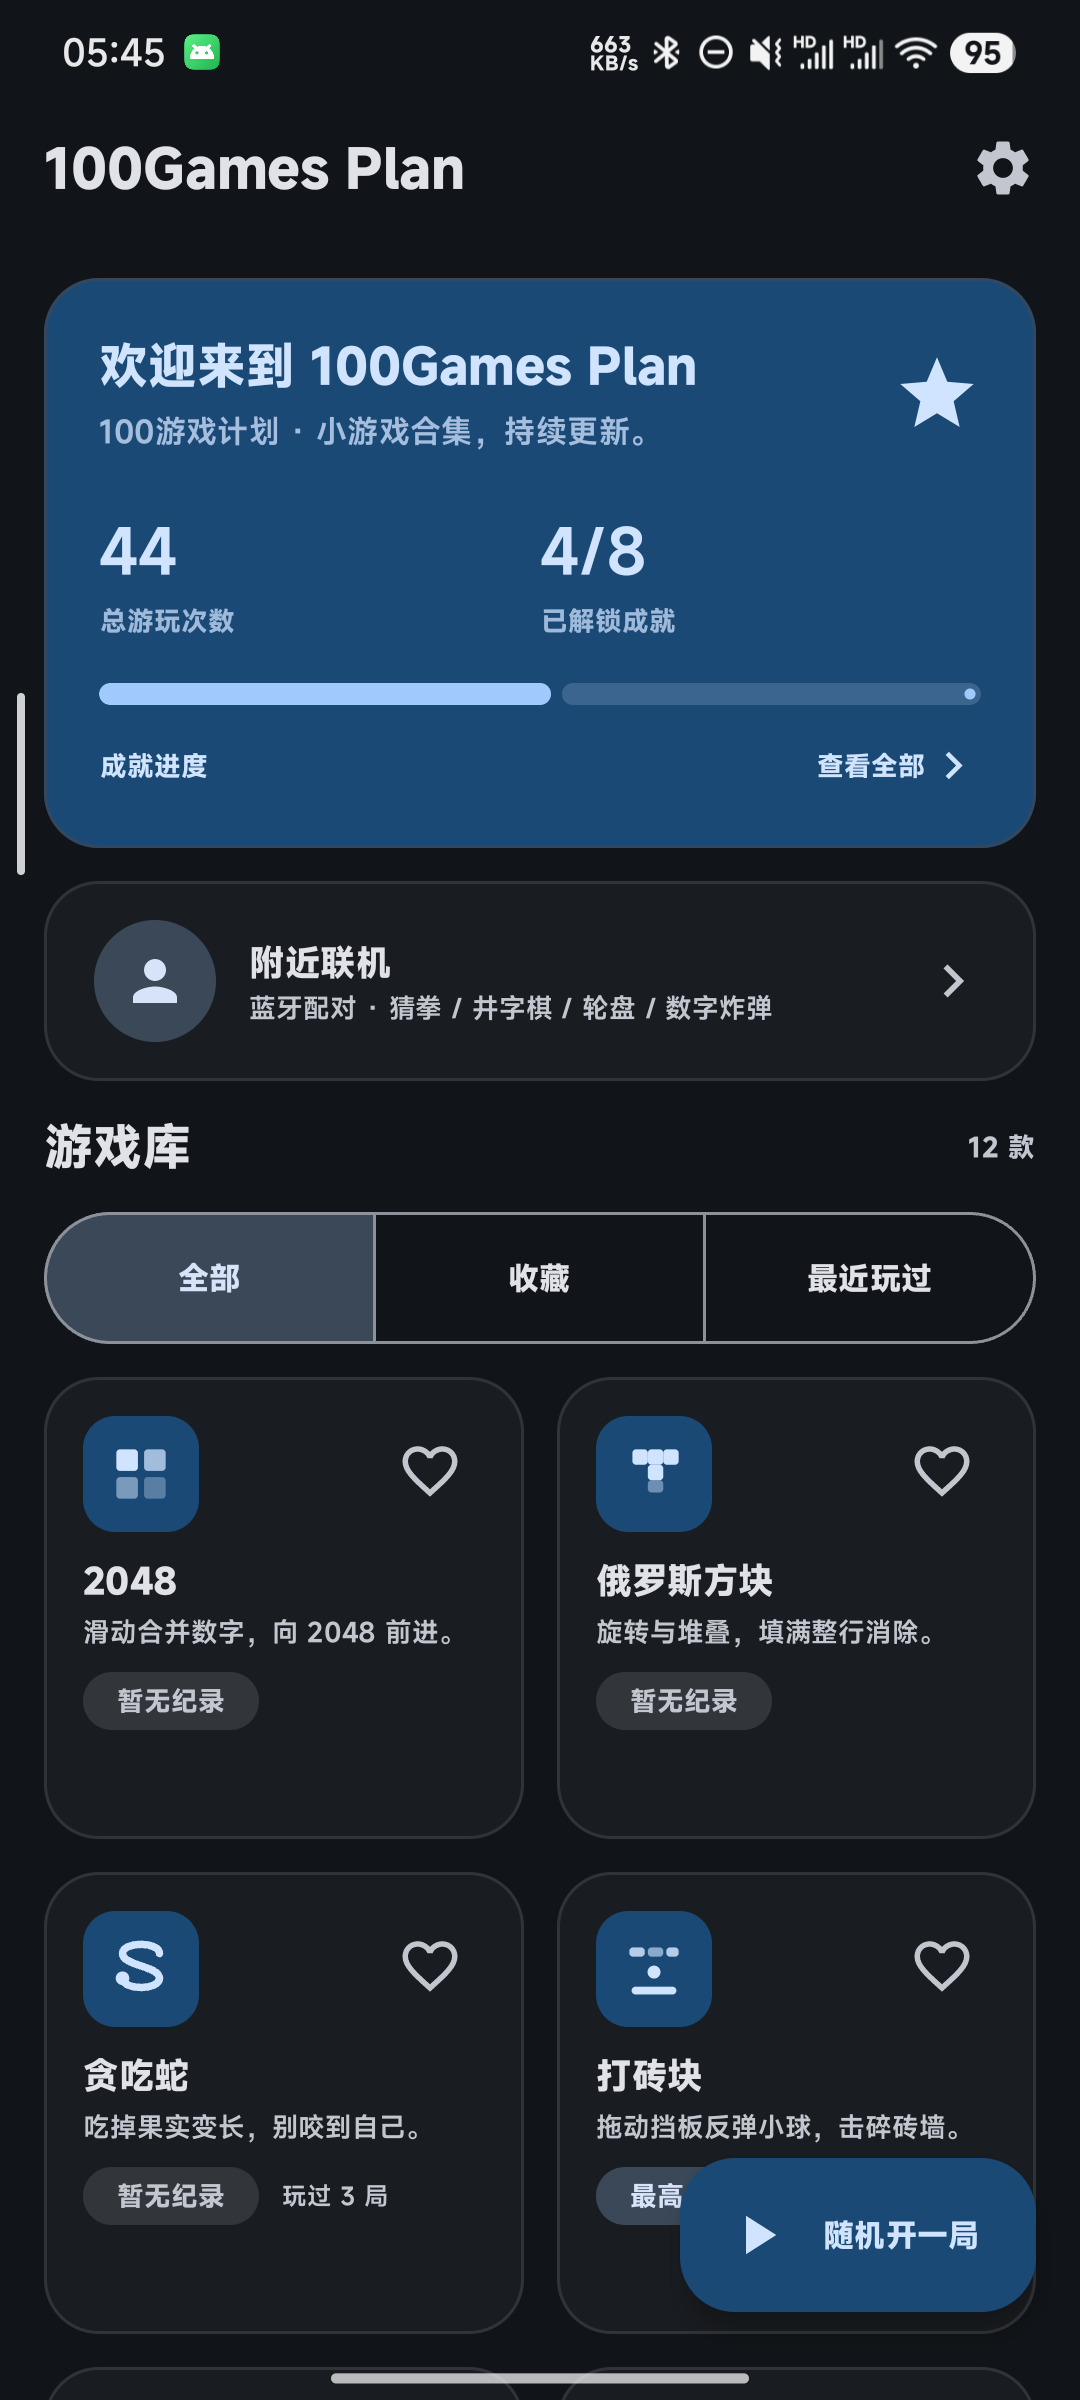
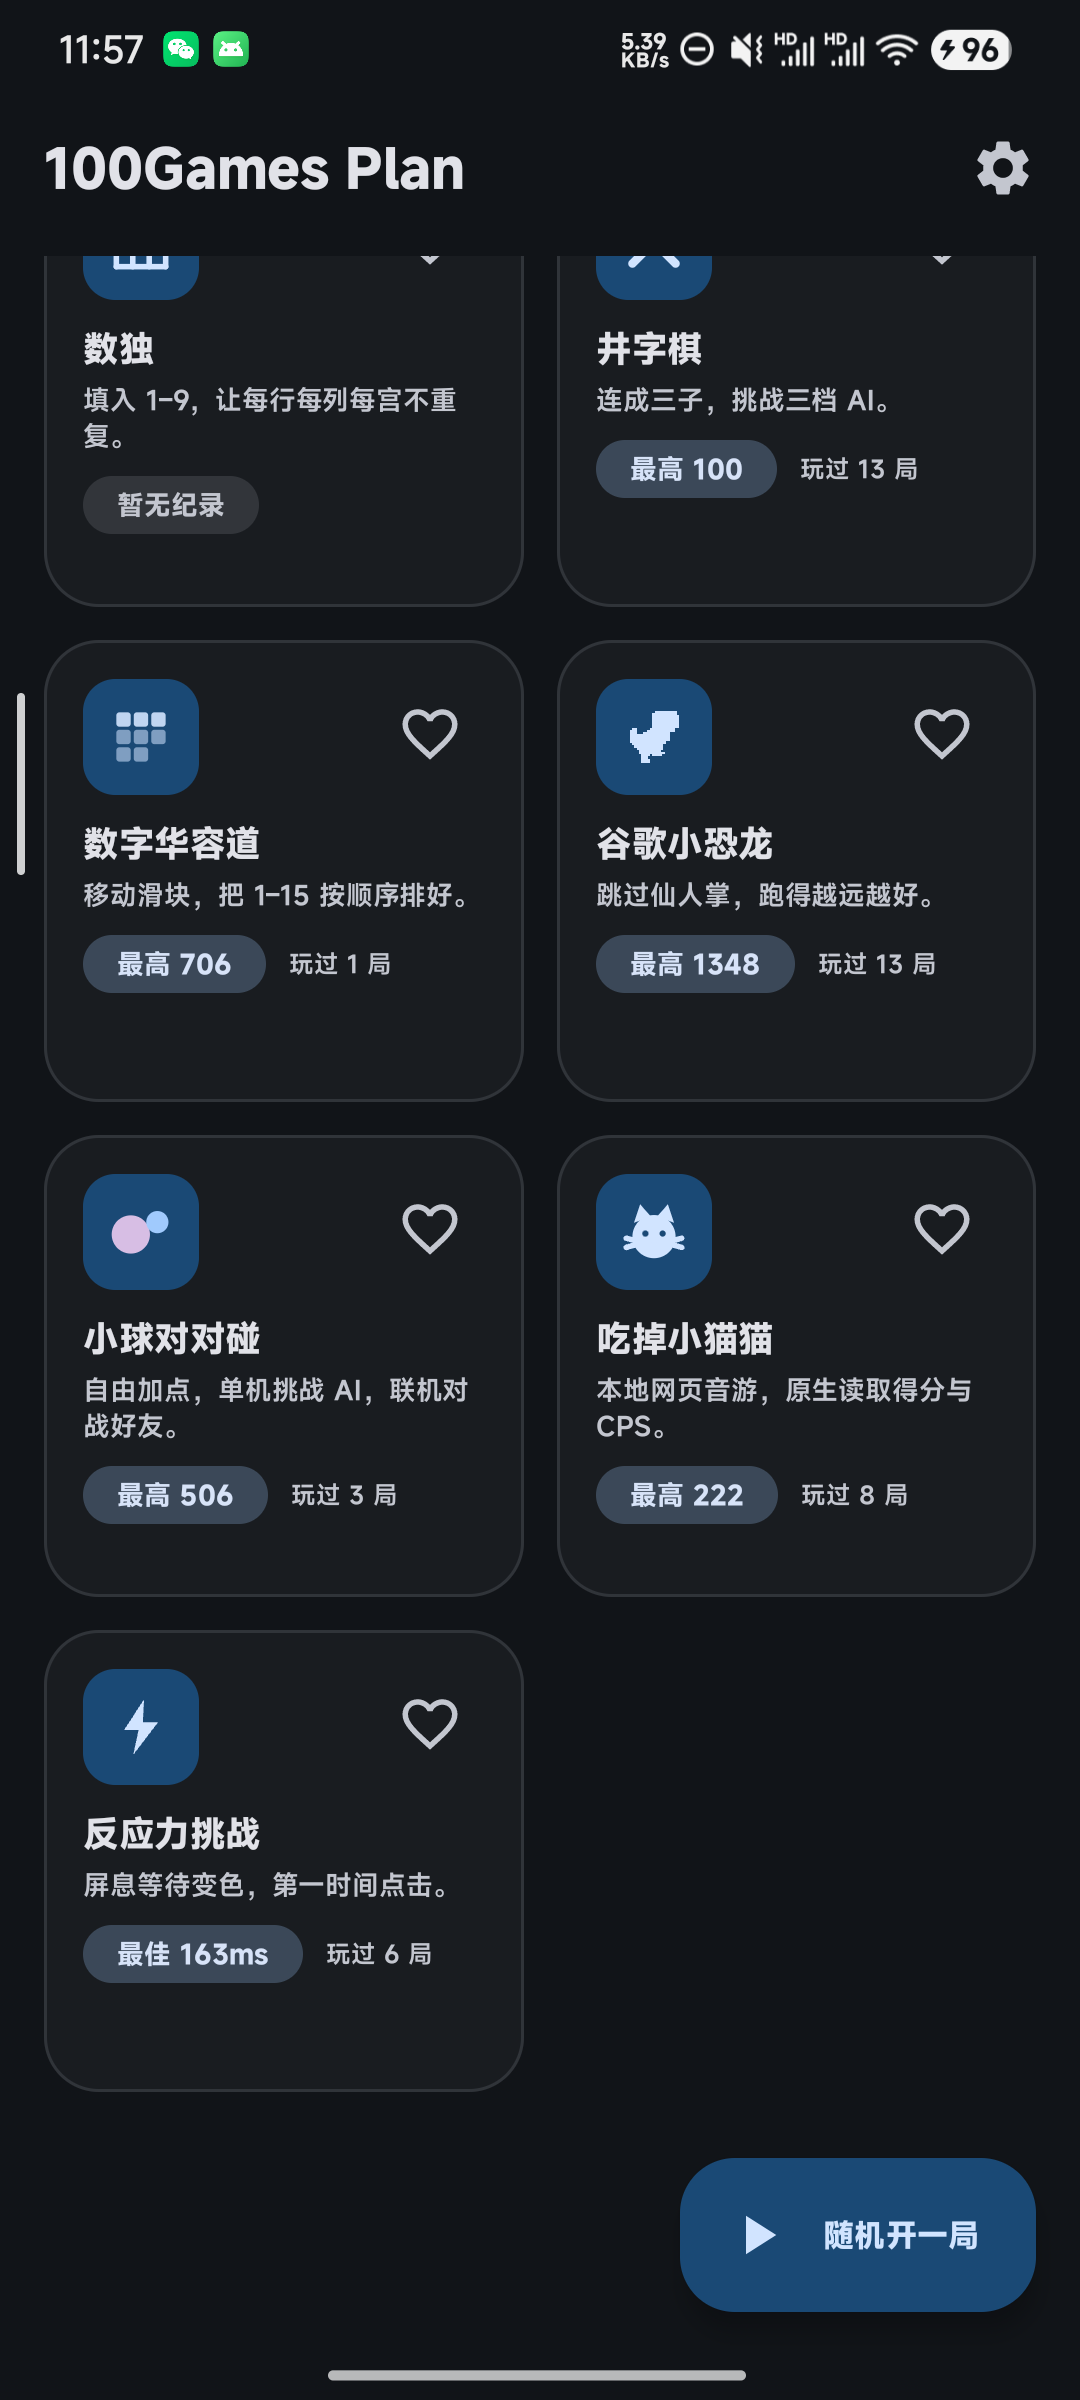
Prepare 100Games Plan v1.1.0 release

diff --git a/app/src/main/java/com/playbox/app/ui/screens/settings/SettingsScreen.kt b/app/src/main/java/com/playbox/app/ui/screens/settings/SettingsScreen.kt
@@ -462,7 +462,7 @@ fun SettingsScreen(
                         color = MaterialTheme.colorScheme.onSurfaceVariant,
                     )
                     Text(
-                        text = "图标设计：@帶我去你夢裡的彼岸",
+                        text = "图标设计：@Anonymity_v",
                         style = MaterialTheme.typography.bodySmall,
                         color = MaterialTheme.colorScheme.onSurfaceVariant,
                         textAlign = TextAlign.Center,

diff --git a/README.md b/README.md
@@ -33,3 +33,9 @@
 - DataStore
 
 更多小游戏会持续加入。
+
+## 制作
+
+- 作者：@Eartecd
+- 图标设计：@Anonymity_v
+- 灵感策划：@十八阶
